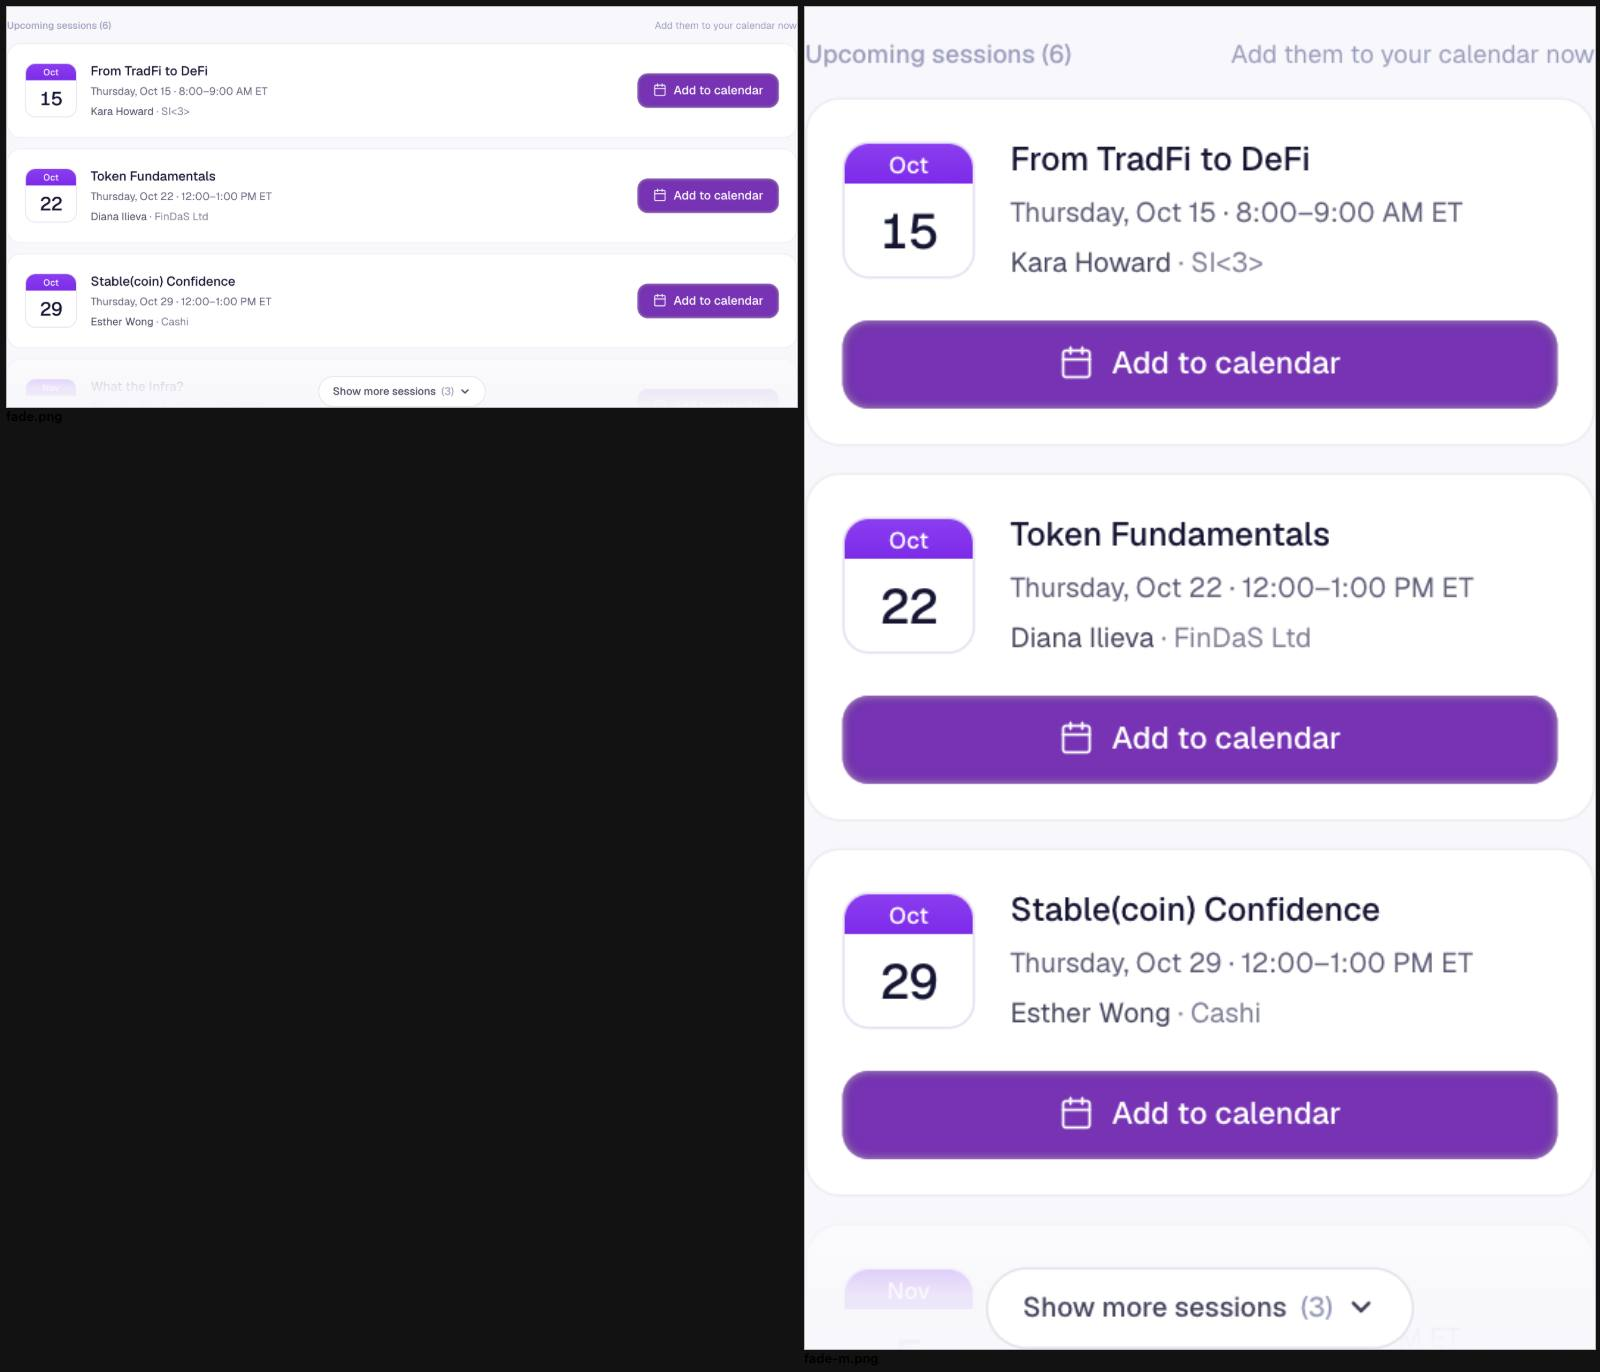
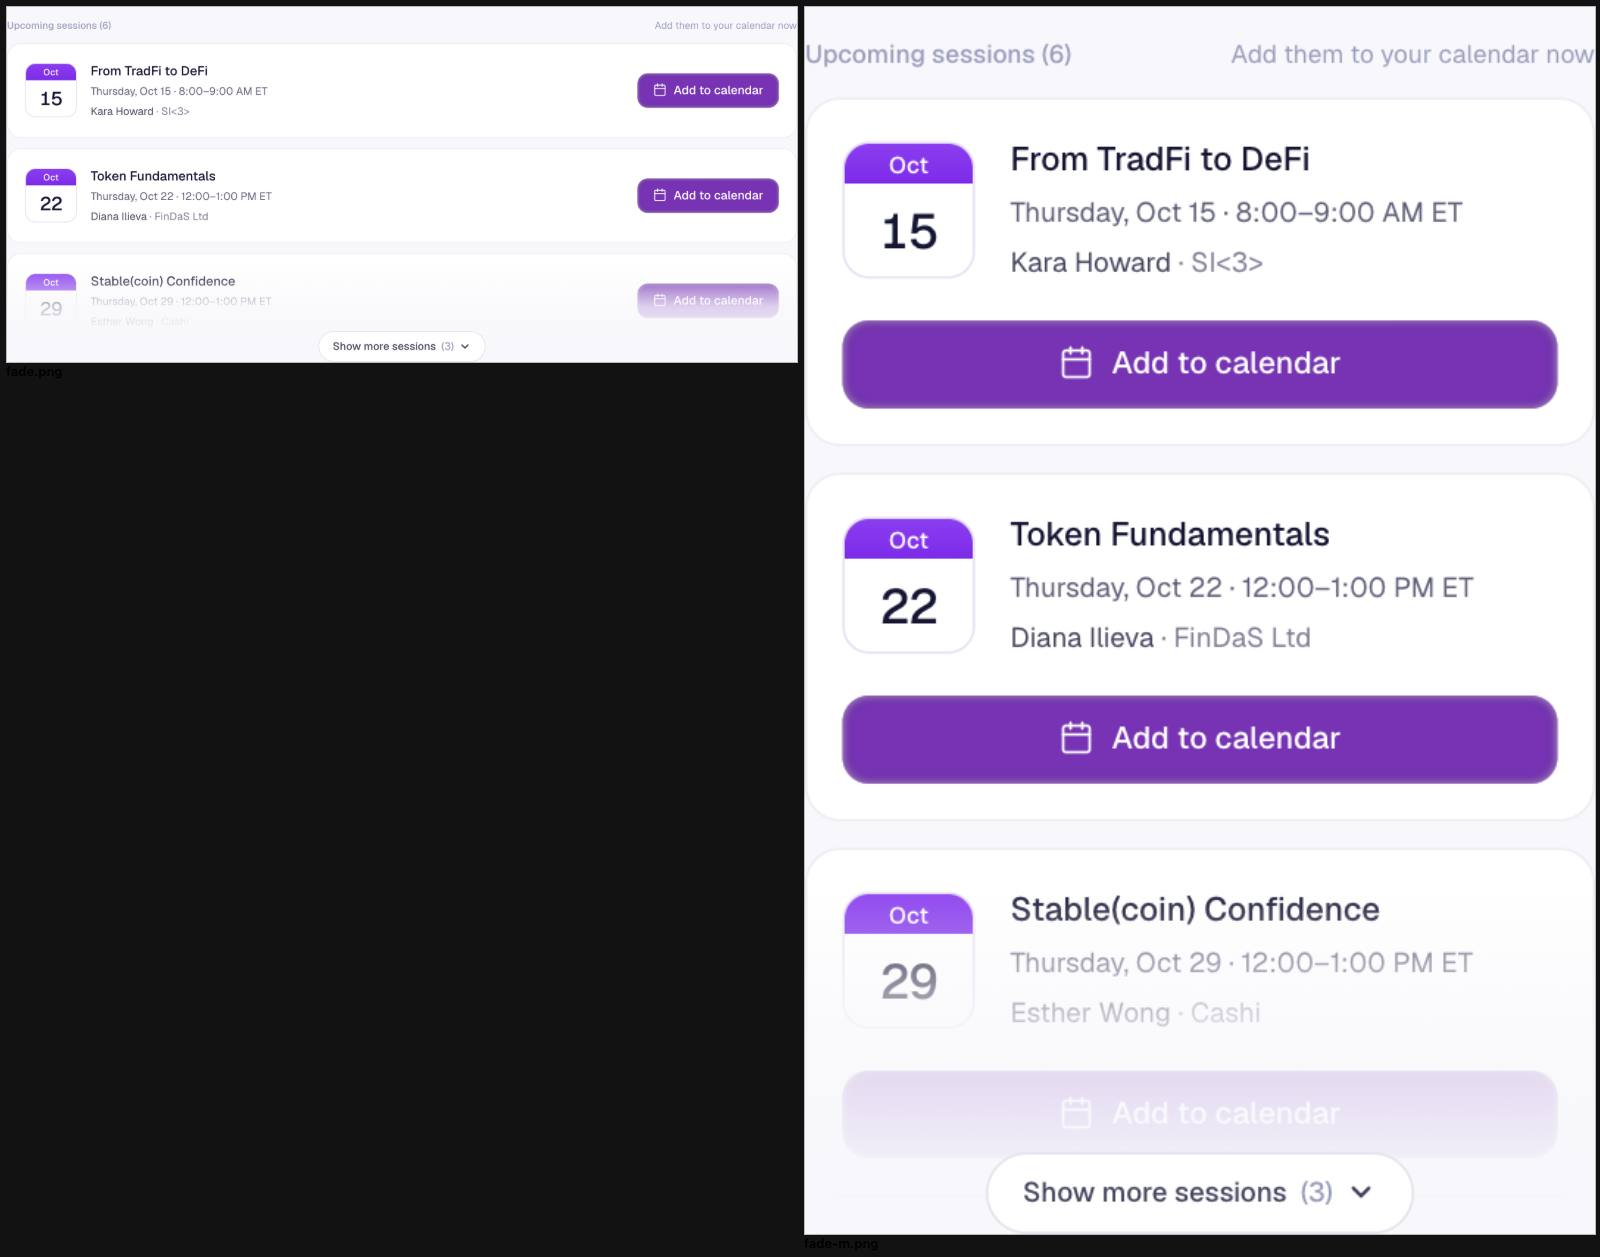
Sessions list: fade the 3rd card instead of peeking the 4th

diff --git a/src/app/(app)/dashboard/page.tsx b/src/app/(app)/dashboard/page.tsx
@@ -418,16 +418,13 @@ export default function DashboardPage() {
               <h2 className="text-[11.5px] font-medium text-[#9a9cbd]">Upcoming sessions ({rest.length})</h2>
               <span className="text-[11.5px] text-[#9a9cbd]">Add them to your calendar now</span>
             </div>
-            <div className="space-y-3">{rest.slice(0, shown).map((m) => <SessionCard key={m.slug} m={m} onSchedule={setScheduling} />)}</div>
-            {shown < rest.length && (
-              // a peek of the next card, fading into the page, so it's clear the list continues
-              <div aria-hidden="true" className="pointer-events-none relative -mb-12 h-16 overflow-hidden select-none" inert>
-                <SessionCard m={rest[shown]} onSchedule={() => {}} />
-                <div className="absolute inset-0 bg-gradient-to-b from-[#f8f8fc]/55 via-[#f8f8fc]/90 to-[#f8f8fc]" />
-              </div>
-            )}
+            <div className="relative space-y-3">
+              {rest.slice(0, shown).map((m) => <SessionCard key={m.slug} m={m} onSchedule={setScheduling} />)}
+              {/* while more are hidden, the last card fades into the page so it's clear the list continues */}
+              {shown < rest.length && <div aria-hidden="true" className="pointer-events-none absolute inset-x-0 bottom-0 h-36 bg-gradient-to-b from-[#f8f8fc]/0 via-[#f8f8fc]/80 to-[#f8f8fc] sm:h-24" />}
+            </div>
             {rest.length > SESSIONS_STEP && (
-              <div className="relative flex justify-center pt-1">
+              <div className={`relative flex justify-center ${shown < rest.length ? '-mt-8' : 'pt-1'}`}>
                 {shown < rest.length ? (
                   <button type="button" onClick={() => setShown((n) => n + SESSIONS_STEP)} className="inline-flex cursor-pointer items-center gap-1.5 rounded-full border border-[#e2e2ec] bg-white px-4 py-2 text-[12.5px] font-medium text-[#45465f] transition hover:border-[#d4c2f5] hover:text-[#7c2ae8]">
                     Show more sessions <span className="text-[#9a9cbd]">({rest.length - shown})</span>

diff --git a/docs/handoff/02-dashboard/README.md b/docs/handoff/02-dashboard/README.md
@@ -63,4 +63,4 @@ Screenshots: `after-session-cards.jpg` (all rows, desktop + mobile), `after-sess
 - **Data issue found:** "From TradFi to DeFi" has `scheduledDate` 12:00 UTC (= 8:00 AM ET) but its label says 12:00–1:00 PM ET. Fix the start/end time in the CMS (should be 16:00–17:00 UTC).
 - **CMS fix:** Kara Howard's sessions should list her company as **SI<3>** (Week 1 had none, Week 2 said "Si Her DeFi"). The prototype's demo data now uses SI<3>.
 - **Update:** no drop shadow on the cards or the date tile (border only). "Add to calendar" is now **Button · Primary md** with the calendar icon in place of the arrow (full width on mobile); once added it's a green "In your calendar" button. "Open" on started sessions is Primary md too.
-- **Fade:** while more sessions are hidden, the top of the next card peeks out right below the 3rd and fades into the page background (`#f8f8fc`), with "Show more sessions (N)" sitting on the fade (`after-sessions-fade.jpg`). The peek is decorative: not clickable, hidden from screen readers.
+- **Fade:** while more sessions are hidden, the bottom of the 3rd card fades into the page background (`#f8f8fc`) and "Show more sessions (N)" sits on the fade (`after-sessions-fade.jpg`). No 4th card shows. The fade doesn't block clicks; once everything is showing it's gone.
